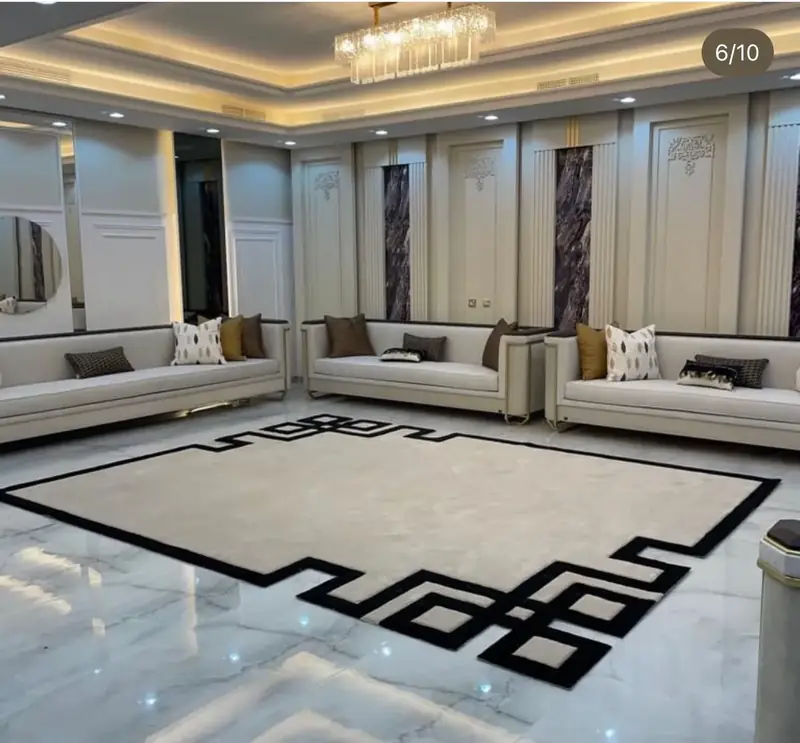
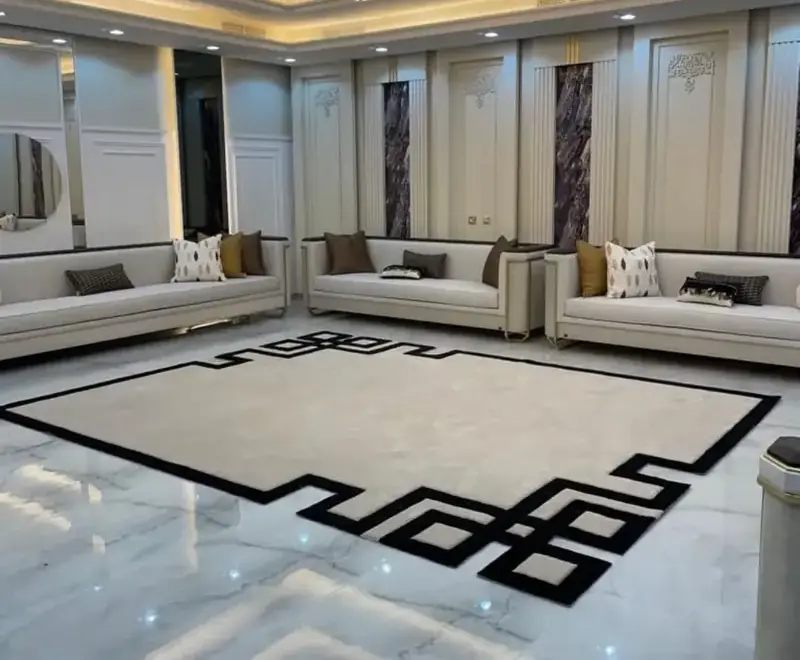
إزالة عدّاد الألبوم (3/10 و5/10 و6/10) من صور الموكيت 01-03 بقص الشريط العلوي + تحديث أبعاد الصورة الرئيسية في صفحاتها الثلاث

diff --git a/catalog/sajjad-موكيت-تركي-كود-03.html b/catalog/sajjad-موكيت-تركي-كود-03.html
@@ -226,7 +226,7 @@ footer a{color:var(--gold-light);text-decoration:none;}
   </div>
 </header>
 <div class="crumb"><a href="/">الرئيسية</a> ← <a href="/sajjad.html">سجاد وموكيت</a> ← موكيت تركي كود 03</div>
-<img class="hero-img" id="hero-img" src="https://salfordkw.shop/products/مجلس-ديكور-الرئيسية-سالفورد.webp" alt="موكيت تركي كود 03 - سالفورد الكويت" width="800" height="743" fetchpriority="high" data-large="https://salfordkw.shop/products/مجلس-ديكور-الرئيسية-سالفورد-large.webp" onclick="openLightbox(this.dataset.large||this.src)"
+<img class="hero-img" id="hero-img" src="https://salfordkw.shop/products/مجلس-ديكور-الرئيسية-سالفورد.webp" alt="موكيت تركي كود 03 - سالفورد الكويت" width="800" height="660" fetchpriority="high" data-large="https://salfordkw.shop/products/مجلس-ديكور-الرئيسية-سالفورد-large.webp" onclick="openLightbox(this.dataset.large||this.src)"
      onerror="this.src='https://placehold.co/600x400/1c1805/C8A96E?text=سالفورد'">
 <div class="gallery-strip">
   <img src="https://salfordkw.shop/products/مجلس-ديكور-الرئيسية-سالفورد.webp" alt="موكيت تركي كود 03 - صورة 1" loading="lazy" data-large="https://salfordkw.shop/products/مجلس-ديكور-الرئيسية-سالفورد-large.webp" onclick="swapHero(this)">

diff --git a/catalog/sajjad-موكيت-تركي-كود-02.html b/catalog/sajjad-موكيت-تركي-كود-02.html
@@ -226,7 +226,7 @@ footer a{color:var(--gold-light);text-decoration:none;}
   </div>
 </header>
 <div class="crumb"><a href="/">الرئيسية</a> ← <a href="/sajjad.html">سجاد وموكيت</a> ← موكيت تركي كود 02</div>
-<img class="hero-img" id="hero-img" src="https://salfordkw.shop/products/نقشة-سجاد-حفر-سالفورد-02.webp" alt="موكيت تركي كود 02 - سالفورد الكويت" width="800" height="747" fetchpriority="high" data-large="https://salfordkw.shop/products/نقشة-سجاد-حفر-سالفورد-02-large.webp" onclick="openLightbox(this.dataset.large||this.src)"
+<img class="hero-img" id="hero-img" src="https://salfordkw.shop/products/نقشة-سجاد-حفر-سالفورد-02.webp" alt="موكيت تركي كود 02 - سالفورد الكويت" width="800" height="663" fetchpriority="high" data-large="https://salfordkw.shop/products/نقشة-سجاد-حفر-سالفورد-02-large.webp" onclick="openLightbox(this.dataset.large||this.src)"
      onerror="this.src='https://placehold.co/600x400/1c1805/C8A96E?text=سالفورد'">
 <div class="gallery-strip">
   <img src="https://salfordkw.shop/products/نقشة-سجاد-حفر-سالفورد-02.webp" alt="موكيت تركي كود 02 - صورة 1" loading="lazy" data-large="https://salfordkw.shop/products/نقشة-سجاد-حفر-سالفورد-02-large.webp" onclick="swapHero(this)">

diff --git a/catalog/sajjad-موكيت-تركي-كود-01.html b/catalog/sajjad-موكيت-تركي-كود-01.html
@@ -226,7 +226,7 @@ footer a{color:var(--gold-light);text-decoration:none;}
   </div>
 </header>
 <div class="crumb"><a href="/">الرئيسية</a> ← <a href="/sajjad.html">سجاد وموكيت</a> ← موكيت تركي كود 01</div>
-<img class="hero-img" id="hero-img" src="https://salfordkw.shop/products/مساند-ظهر-سالفورد.webp" alt="موكيت تركي كود 01 - سالفورد الكويت" width="800" height="743" fetchpriority="high" data-large="https://salfordkw.shop/products/مساند-ظهر-سالفورد-large.webp" onclick="openLightbox(this.dataset.large||this.src)"
+<img class="hero-img" id="hero-img" src="https://salfordkw.shop/products/مساند-ظهر-سالفورد.webp" alt="موكيت تركي كود 01 - سالفورد الكويت" width="800" height="660" fetchpriority="high" data-large="https://salfordkw.shop/products/مساند-ظهر-سالفورد-large.webp" onclick="openLightbox(this.dataset.large||this.src)"
      onerror="this.src='https://placehold.co/600x400/1c1805/C8A96E?text=سالفورد'">
 <div class="gallery-strip">
   <img src="https://salfordkw.shop/products/مساند-ظهر-سالفورد.webp" alt="موكيت تركي كود 01 - صورة 1" loading="lazy" data-large="https://salfordkw.shop/products/مساند-ظهر-سالفورد-large.webp" onclick="swapHero(this)">
